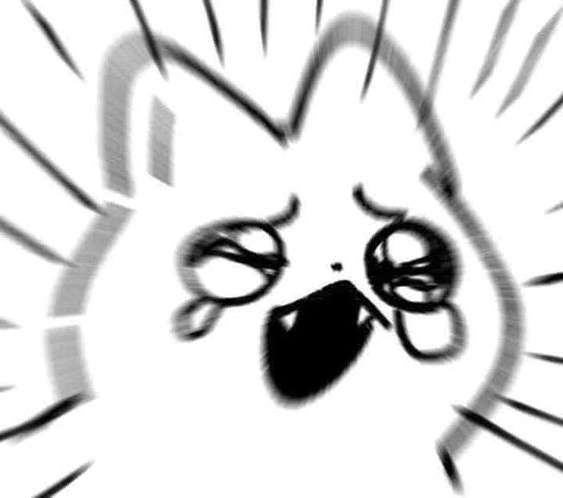
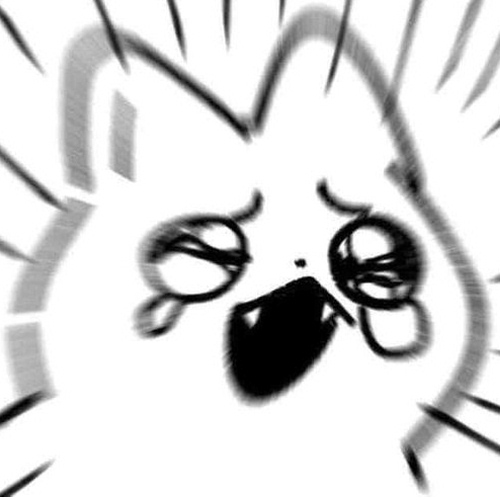
Site updated: 2023-05-21 10:58:01

diff --git a/2023/05/21/Test/index.html b/2023/05/21/Test/index.html
@@ -11,19 +11,19 @@
   <meta charset="utf-8">
   
   
-  <title>Hello World | 孟德尔的豌豆黄圆绿皱</title>
+  <title>Test | 孟德尔的豌豆黄圆绿皱</title>
   <meta name="viewport" content="width=device-width, initial-scale=1, shrink-to-fit=no">
-  <meta name="description" content="Welcome to Hexo! This is your very first post. Check documentation for more info. If you get any problems when using Hexo, you can find the answer in troubleshooting or you can ask me on GitHub. Quick">
-<meta property="og:type" content="article">
-<meta property="og:title" content="Hello World">
-<meta property="og:url" content="https://azurefox1008.github.io/2023/05/16/hello-world/index.html">
+  <meta property="og:type" content="article">
+<meta property="og:title" content="Test">
+<meta property="og:url" content="https://azurefox1008.github.io/2023/05/21/Test/index.html">
 <meta property="og:site_name" content="孟德尔的豌豆黄圆绿皱">
-<meta property="og:description" content="Welcome to Hexo! This is your very first post. Check documentation for more info. If you get any problems when using Hexo, you can find the answer in troubleshooting or you can ask me on GitHub. Quick">
 <meta property="og:locale" content="zh_CN">
-<meta property="article:published_time" content="2023-05-16T15:38:00.184Z">
-<meta property="article:modified_time" content="2023-05-16T15:11:07.874Z">
+<meta property="og:image" content="https://azurefox1008.github.io/2023/05/21/Test/1.png">
+<meta property="article:published_time" content="2023-05-21T02:54:29.000Z">
+<meta property="article:modified_time" content="2023-05-21T02:57:26.949Z">
 <meta property="article:author" content="azurefox1008">
 <meta name="twitter:card" content="summary">
+<meta name="twitter:image" content="https://azurefox1008.github.io/2023/05/21/Test/1.png">
   
   
   
@@ -164,7 +164,7 @@
       <ul>
         
           <li>
-            <a href="/2023/05/16/hello-world/">Hello World</a>
+            <a href="/2023/05/21/Test/">Test</a>
           </li>
         
       </ul>
@@ -178,7 +178,7 @@
     <div id="content-body">
        
 
-<article id="post-hello-world" class="h-entry article article-type-post" itemprop="blogPost" itemscope itemtype="https://schema.org/BlogPosting">
+<article id="post-Test" class="h-entry article article-type-post" itemprop="blogPost" itemscope itemtype="https://schema.org/BlogPosting">
   
     
    
@@ -191,7 +191,7 @@
   
     
       <h1 class="p-name article-title" itemprop="headline name">
-        Hello World
+        Test
       </h1>
     
   
@@ -199,7 +199,7 @@
 
         <div class='meta-info-bar'>
           <div class="meta-info">
-  <time class="dt-published" datetime="2023-05-16T15:38:00.184Z" itemprop="datePublished">2023-05-16</time>
+  <time class="dt-published" datetime="2023-05-21T02:54:29.000Z" itemprop="datePublished">2023-05-21</time>
 </div>
           <div class="need-seperator meta-info">
             <div class="meta-cate-flex">
@@ -210,26 +210,14 @@
   
           </div>
           <div class="wordcount need-seperator meta-info">
-            78 词 
+            0 词 
           </div>
         </div>
         
       </header>
       <div class="e-content article-entry" itemprop="articleBody">
         
-          <p>Welcome to <a target="_blank" rel="noopener" href="https://hexo.io/">Hexo</a>! This is your very first post. Check <a target="_blank" rel="noopener" href="https://hexo.io/docs/">documentation</a> for more info. If you get any problems when using Hexo, you can find the answer in <a target="_blank" rel="noopener" href="https://hexo.io/docs/troubleshooting.html">troubleshooting</a> or you can ask me on <a target="_blank" rel="noopener" href="https://github.com/hexojs/hexo/issues">GitHub</a>.</p>
-<h2 id="Quick-Start"><a href="#Quick-Start" class="headerlink" title="Quick Start"></a>Quick Start</h2><h3 id="Create-a-new-post"><a href="#Create-a-new-post" class="headerlink" title="Create a new post"></a>Create a new post</h3><figure class="highlight bash"><table><tr><td class="gutter"><pre><span class="line">1</span><br></pre></td><td class="code"><pre><span class="line">$ hexo new <span class="string">&quot;My New Post&quot;</span></span><br></pre></td></tr></table></figure>
-
-<p>More info: <a target="_blank" rel="noopener" href="https://hexo.io/docs/writing.html">Writing</a></p>
-<h3 id="Run-server"><a href="#Run-server" class="headerlink" title="Run server"></a>Run server</h3><figure class="highlight bash"><table><tr><td class="gutter"><pre><span class="line">1</span><br></pre></td><td class="code"><pre><span class="line">$ hexo server</span><br></pre></td></tr></table></figure>
-
-<p>More info: <a target="_blank" rel="noopener" href="https://hexo.io/docs/server.html">Server</a></p>
-<h3 id="Generate-static-files"><a href="#Generate-static-files" class="headerlink" title="Generate static files"></a>Generate static files</h3><figure class="highlight bash"><table><tr><td class="gutter"><pre><span class="line">1</span><br></pre></td><td class="code"><pre><span class="line">$ hexo generate</span><br></pre></td></tr></table></figure>
-
-<p>More info: <a target="_blank" rel="noopener" href="https://hexo.io/docs/generating.html">Generating</a></p>
-<h3 id="Deploy-to-remote-sites"><a href="#Deploy-to-remote-sites" class="headerlink" title="Deploy to remote sites"></a>Deploy to remote sites</h3><figure class="highlight bash"><table><tr><td class="gutter"><pre><span class="line">1</span><br></pre></td><td class="code"><pre><span class="line">$ hexo deploy</span><br></pre></td></tr></table></figure>
-
-<p>More info: <a target="_blank" rel="noopener" href="https://hexo.io/docs/one-command-deployment.html">Deployment</a></p>
+          <p><img src="/2023/05/21/Test/1.png"> </p>
 
         
       </div>

diff --git a/index.html b/index.html
@@ -160,7 +160,7 @@
       <ul>
         
           <li>
-            <a href="/2023/05/16/hello-world/">Hello World</a>
+            <a href="/2023/05/21/Test/">Test</a>
           </li>
         
       </ul>
@@ -172,10 +172,11 @@
 </sidebar>
     </div>
     <div id="content-body">
-      
+      <!-- 导航页-->
+
    
 
-<article id="post-hello-world" class="h-entry article article-type-post" itemprop="blogPost" itemscope itemtype="https://schema.org/BlogPosting">
+<article id="post-Test" class="h-entry article article-type-post" itemprop="blogPost" itemscope itemtype="https://schema.org/BlogPosting">
    
   <div class="article-inner">
     <div class="article-main">
@@ -186,7 +187,7 @@
   
     
       <h1 itemprop="name">
-        <a class="p-name article-title" href="/2023/05/16/hello-world/">Hello World</a>
+        <a class="p-name article-title" href="/2023/05/21/Test/">Test</a>
       </h1>
     
   
@@ -194,7 +195,7 @@
 
         <div class='meta-info-bar'>
           <div class="meta-info">
-  <time class="dt-published" datetime="2023-05-16T15:38:00.184Z" itemprop="datePublished">2023-05-16</time>
+  <time class="dt-published" datetime="2023-05-21T02:54:29.000Z" itemprop="datePublished">2023-05-21</time>
 </div>
           <div class="need-seperator meta-info">
             <div class="meta-cate-flex">
@@ -205,7 +206,7 @@
   
           </div>
           <div class="wordcount need-seperator meta-info">
-            78 词 
+            0 词 
           </div>
         </div>
         
@@ -213,19 +214,7 @@
       <div class="e-content article-entry" itemprop="articleBody">
         
           <div class="truncate-text">
-            Welcome to Hexo! This is your very first post. Check documentation for more info. If you get any problems when using Hexo, you can find the answer in troubleshooting or you can ask me on GitHub.
-Quick StartCreate a new post1$ hexo new &quot;My New Post&quot;
-
-More info: Writing
-Run server1$ hexo server
-
-More info: Server
-Generate static files1$ hexo generate
-
-More info: Generating
-Deploy to remote sites1$ hexo deploy
-
-More info: Deployment
+             
   
           </div>
         
@@ -237,7 +226,7 @@ More info: Deployment
      
     <a class="right-panel  non-pic  "
       
-      href="/2023/05/16/hello-world/" 
+      href="/2023/05/21/Test/" 
     >
        
       <i class="fa-solid fa-angle-right non-pic"></i>

diff --git a/archives/2023/05/index.html b/archives/2023/05/index.html
@@ -160,7 +160,7 @@
       <ul>
         
           <li>
-            <a href="/2023/05/16/hello-world/">Hello World</a>
+            <a href="/2023/05/21/Test/">Test</a>
           </li>
         
       </ul>
@@ -193,15 +193,15 @@
             </div>
         </div>
       
-      <a class="archive-article-link" href="/2023/05/16/hello-world/" title="Hello World">
-        <div class="date">05-16</div>
+      <a class="archive-article-link" href="/2023/05/21/Test/" title="Test">
+        <div class="date">05-21</div>
         <div class="line">
             <div class="dot"></div>
         </div>
         <div class="title">
             <div class="title-inner">
                 
-                    Hello World
+                    Test
                 
             </div>
         </div>

diff --git a/archives/2023/index.html b/archives/2023/index.html
@@ -160,7 +160,7 @@
       <ul>
         
           <li>
-            <a href="/2023/05/16/hello-world/">Hello World</a>
+            <a href="/2023/05/21/Test/">Test</a>
           </li>
         
       </ul>
@@ -193,15 +193,15 @@
             </div>
         </div>
       
-      <a class="archive-article-link" href="/2023/05/16/hello-world/" title="Hello World">
-        <div class="date">05-16</div>
+      <a class="archive-article-link" href="/2023/05/21/Test/" title="Test">
+        <div class="date">05-21</div>
         <div class="line">
             <div class="dot"></div>
         </div>
         <div class="title">
             <div class="title-inner">
                 
-                    Hello World
+                    Test
                 
             </div>
         </div>

diff --git a/archives/index.html b/archives/index.html
@@ -160,7 +160,7 @@
       <ul>
         
           <li>
-            <a href="/2023/05/16/hello-world/">Hello World</a>
+            <a href="/2023/05/21/Test/">Test</a>
           </li>
         
       </ul>
@@ -193,15 +193,15 @@
             </div>
         </div>
       
-      <a class="archive-article-link" href="/2023/05/16/hello-world/" title="Hello World">
-        <div class="date">05-16</div>
+      <a class="archive-article-link" href="/2023/05/21/Test/" title="Test">
+        <div class="date">05-21</div>
         <div class="line">
             <div class="dot"></div>
         </div>
         <div class="title">
             <div class="title-inner">
                 
-                    Hello World
+                    Test
                 
             </div>
         </div>
